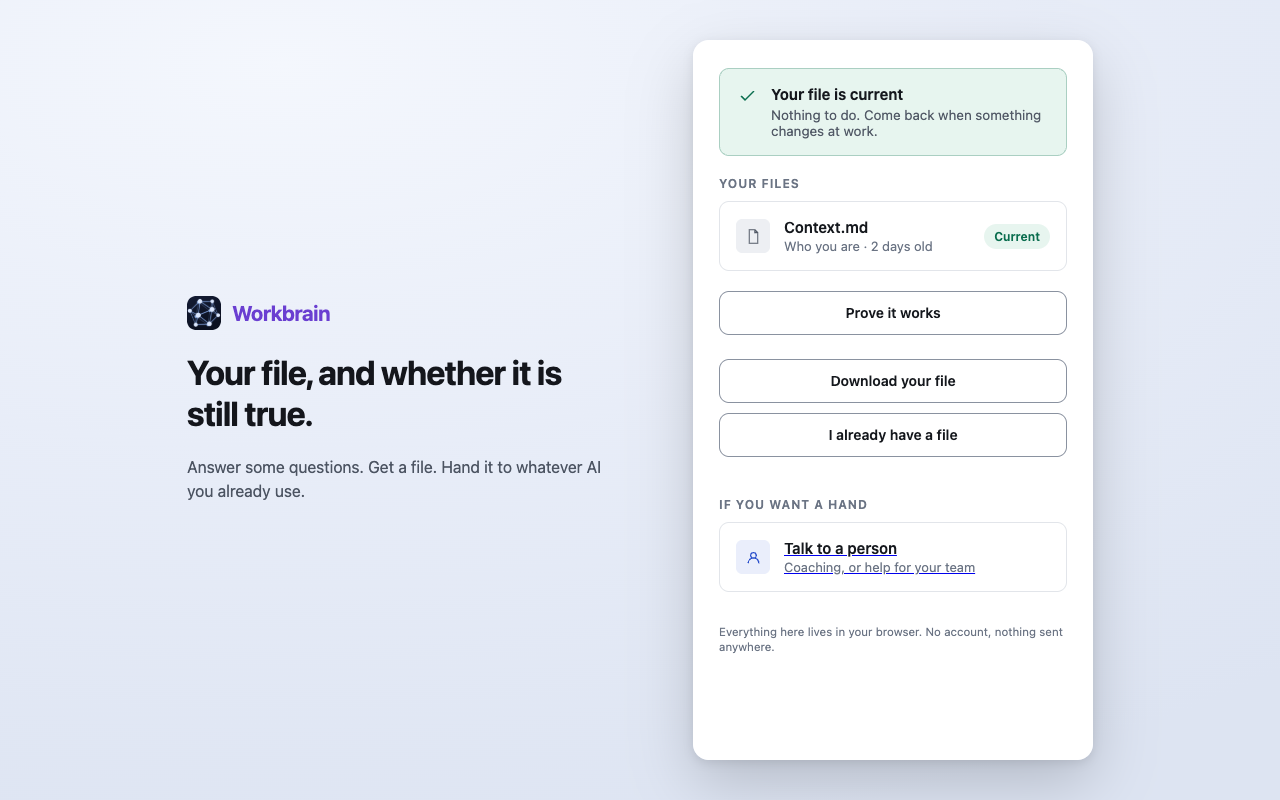
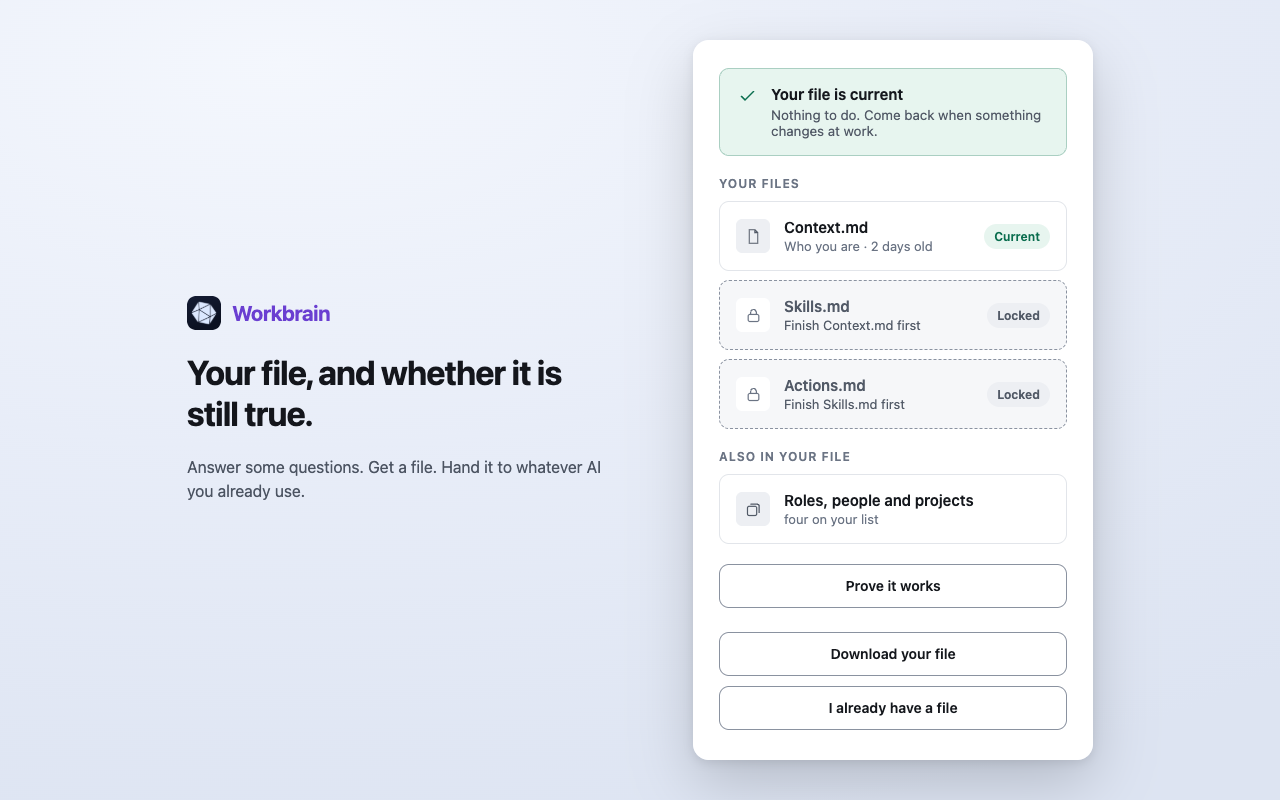
ship lane: the store shots photograph the V2.1 product
Regenerated against the build the previous commit gated, and looked at - which is
where both real problems were. Shot 2 had parked on the roles loop's bare yes/no
gate, an empty screen captioned "the questions are the point"; the walk now steps
past reflect screens AND gates until the screen holds a question with some point to
it. Shot 3 was photographing the work-tier list because the script's loose /brain/i
locator matched the breadcrumb's "Work brain" rung before the Brain toggle - it now
presses the toggle by its exact name, waits for the nav band, and lets the pose
settle. The script also learned V1.7's two-step walk (the file row opens the file,
the file opens the interview) and VB-73's doorway.

Shot 3 is incidentally the best argument for this ordering rule: it shows VB-77's
always-on labels and VB-74's Back/Home band, neither of which existed this morning.
Shots regenerated before the code land stale by lunch.

Remaining before submission: deploy the privacy page (the one hard blocker),
npm run zip, and the manual store-form steps in the checklist.

diff --git a/store/LISTING.md b/store/LISTING.md
@@ -98,17 +98,14 @@ so they do not have to re-explain who they are and how they work every time.
 | `3-brain.png` | The file assembling as you answer |
 | `4-proof.png` | The proof loop — same question, with and without the file |
 
-> **⚠ The images in this folder are stale and must be regenerated before submitting.**
-> They were driven against a build from 24 August 2026, and roughly twenty-five feature commits
-> have landed since — the accordion list, the lit orbs, the file toggle, the work brain tier, the
-> nav melt, the fixed breadcrumb nav. Shot 1 in particular is now wrong rather than merely dated:
-> Home stopped being *one file and its freshness* at V1.7 VB-36/37 and became a shelf of files with
-> locked slots, and V2.0 VB-64 renamed it again. The caption above is the current one; the picture
-> is not.
+> Regenerated 25 August 2026 against the V2.1 build (commit b4cbc24) and **looked at, all four**
+> — that is not a formality: this pass caught shot 2 parked on a bare yes/no gate, and shot 3
+> photographing the work-tier list because a loose `/brain/i` locator pressed the breadcrumb's
+> "Work brain" rung instead of the Brain toggle. Shot 3 now shows the globe with its always-on
+> labels (VB-77) and the fixed Back/Home band (VB-74) — the current product.
 >
-> `npm run build && node scripts/store-shots.mjs`, then **look at all four**. That is not a
-> formality — the last pass caught a caption contradicting its own panel and a shot clipping
-> "Keep it as-is" in half, and both were only visible by looking.
+> Regenerate again after any visual change: `npm run build && node scripts/store-shots.mjs`,
+> then look at all four.
 
 ## Pre-submit checklist
 - [x] Privacy policy **written and typechecked** — `src/app/work-brain/privacy/page.tsx` in the
@@ -116,8 +113,8 @@ so they do not have to re-explain who they are and how they work every time.
       on 25 August 2026; see `store/PRIVACY.md` for what was checked and the one sentence that was
       wrong.
 - [ ] Privacy policy **deployed** and reachable at the URL above ← *the remaining hard blocker*
-- [ ] Screenshots regenerated against the current build, and all four looked at
-- [ ] `npm run check` green
+- [x] Screenshots regenerated against the current build (V2.1, b4cbc24), and all four looked at
+- [x] `npm run check` green — 25 August 2026: typecheck, audit, 1612 unit, 503 e2e, 68 a11y
 - [ ] `npm run zip` produces `dist.zip`
 - [ ] `dist.zip`'s manifest requests exactly `storage` and `sidePanel`
 - [ ] Version bumped in `manifest.config.ts` if resubmitting
